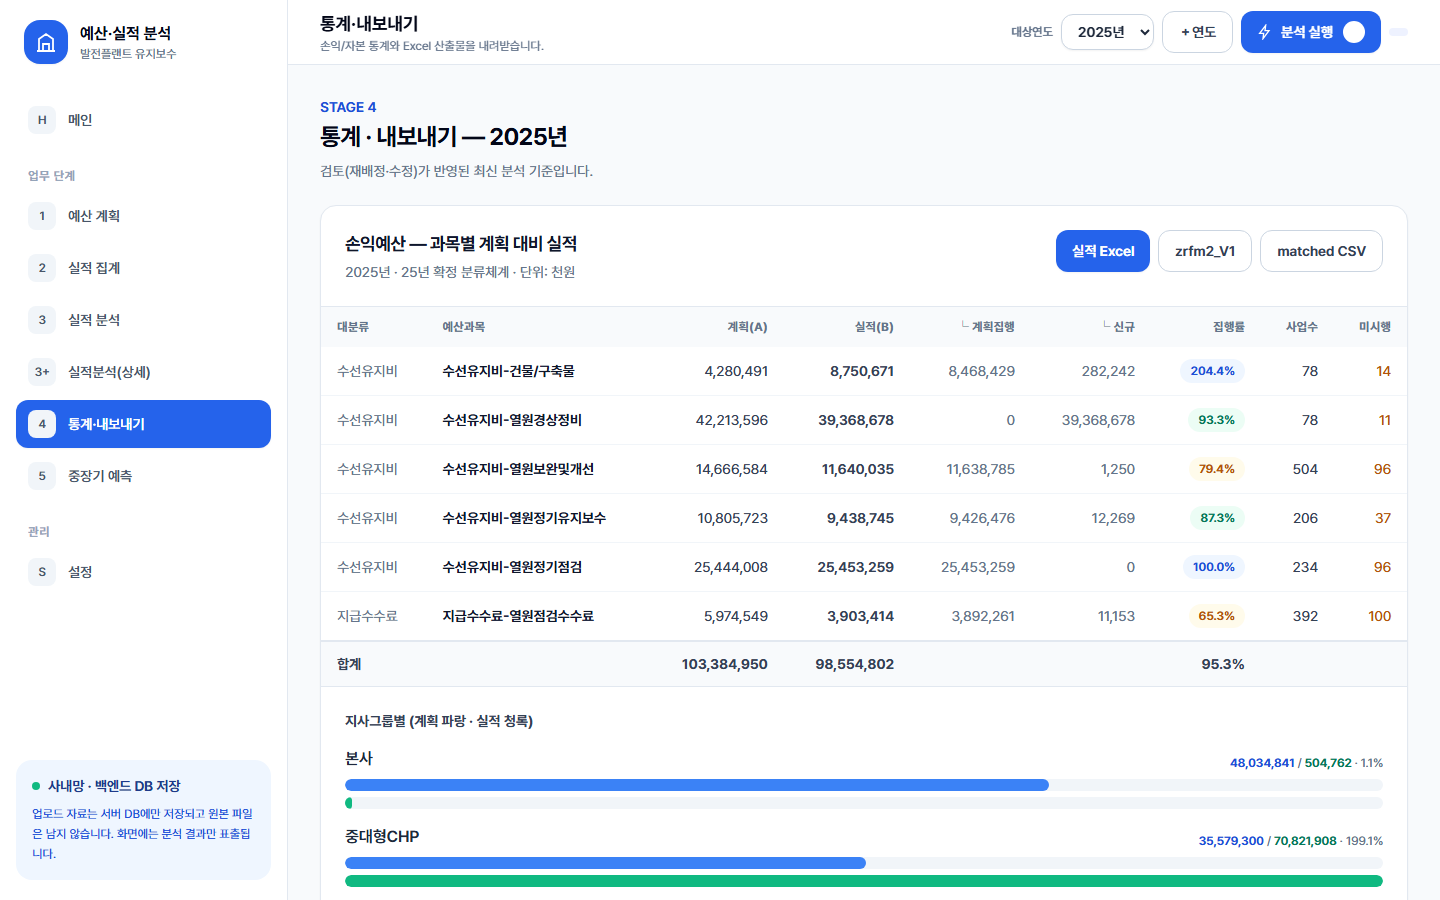
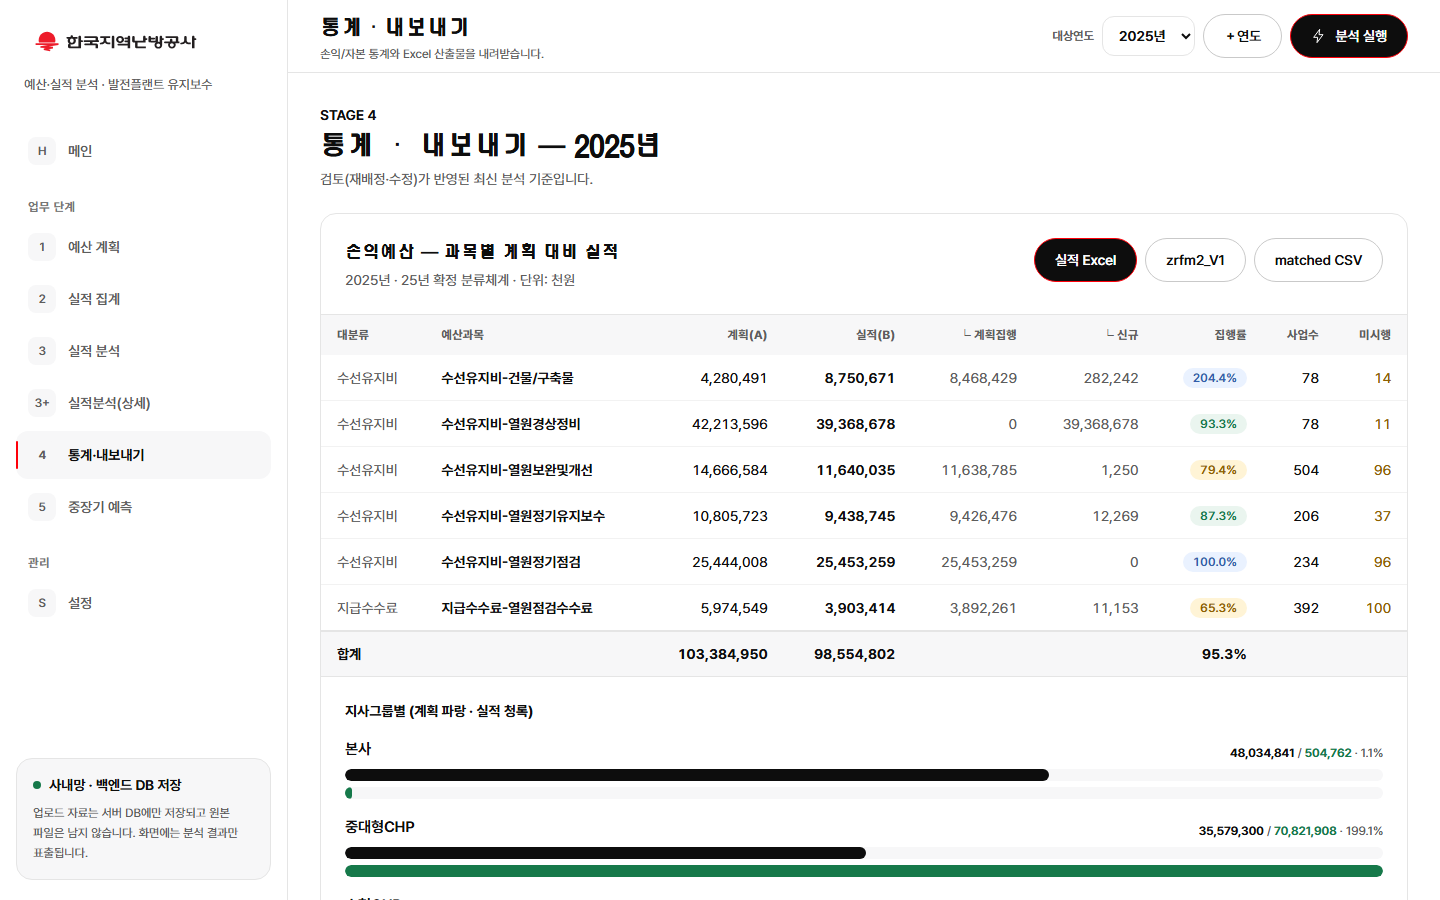
docs(ui): 한난 디자인 제작 메모·4개 폭 실측 캡처·공유 안내 캡처 갱신 (Task 5)
왜: 색 하나를 바꿀 사람이 «왜 이 값인지, 어디를 같이 바꿔야 하는지, 무엇이 실측이고
무엇이 계산인지»를 한 곳에서 보게 한다. 팀 공유 안내(팀공유_최종안내.html)의
캡처 10장은 옛 파란 화면이라 새 화면으로 갱신.

- docs/UI_제작메모_한난.md — 시안 대비 변경 · CI 근거(공식 #FE0009 vs 추출값,
  시그니처 출처, 한난체 라이선스 미확인) · 토큰 두 곳 규칙 · 실측(폭 4개 넘침 0,
  드로어, 폰트, 열폭) / 코드 검토(모션 감소, 대비 계산) 구분 · 대비표 15조합 ·
  남은 항목(한난체 사용 범위 확인·배포 확인).
- docs/img/ui/ 28장(1440·768·390·360 × 7화면). 390·360 은 Edge 헤드리스가 창 폭을
  ~500px 아래로 못 내려 DevTools Protocol 의 디바이스 에뮬레이션으로 찍었다
  (처음 --window-size 로 찍은 것은 넓은 레이아웃이 잘린 그림이라 교체).
- docs/img/share/ 10장 재캡처(1440×900, 동탄지사 상세 등 Phase 7 과 같은 화면).
- 계획서 체크 표기(사용자 몫인 Task 5 Step 8 만 남김).
- 최종 회귀 279 passed.

diff --git a/2026-09-09-team-package-v0/docs/UI_제작메모_한난.md b/2026-09-09-team-package-v0/docs/UI_제작메모_한난.md
@@ -1,0 +1,101 @@
+# 한난 디자인 시스템 적용 — UI 제작 메모 (Phase 8, 2026-09-21)
+
+> 설계서: `docs/superpowers/specs/2026-09-21-한난-디자인시스템-design.md` · 계획서: `docs/superpowers/plans/2026-09-21-Phase8-한난-디자인시스템.md`
+> 이 메모는 «무엇을 바꿨고, 왜 그 값인지, 무엇을 실측했고 무엇은 코드만 봤는지»를 남긴다. 다음 사람이 색 하나를 바꿀 때 어디를 봐야 하는지가 여기 있다.
+
+## 1. 시안 대비 무엇을 바꿨나
+
+한난 메인 시안(`hannan-template`)은 마케팅 홈페이지다. 이 앱은 팀 5~10명이 매일 쓰는 **업무 도구**라서 시안의 **색·글꼴·형태·톤**만 가져오고 **구조는 그대로** 두었다.
+
+| 영역 | 유지 | 바꾼 것 |
+|---|---|---|
+| 레이아웃 | 사이드바 288px · 헤더 · 메뉴 7개 · 라우팅 · 상세표(`det-table`) 열폭 | — |
+| 색 | — | Tailwind 기본 팔레트(`blue-600` 강조·`slate` 중성) → 한난 토큰. 화면 10개에서 495곳 치환, **잔존 0** (테스트로 고정) |
+| 글꼴 | 본문·표·숫자 Pretendard 계열 | 제목(헤더 `#pageTitle` 22px · 뷰 h2 24→28px · 게이트 h1 28px · `.section-title` 18px)에만 **한난체** 서브셋 |
+| 형태 | — | 카드 16px 곡률·1px 선·**그림자 없음** · 버튼 캡슐 44px · 입력 12px · 떠 있는 것(토스트·바쁨·전망 저장바)만 `shadow-float` |
+| 셸 | — | 파란 집 아이콘 → **공식 시그니처 SVG**(184px, `alt="한국지역난방공사"`) · 헤더 72px 불투명 흰색 · 사이드바 활성 = 검정 굵게 + 왼쪽 2px 빨간 마커 · 작업자 배지 남색 → 중성 |
+| 접근성 | — | 건너뛰기 링크 «본문 바로가기» · `:focus-visible` 빨간 2px 링 · 모바일 드로어 Escape/포커스 복귀/Tab 순환·`aria-expanded`·`role=dialog` · `prefers-reduced-motion` 억제 · 표 숫자 `tabular-nums` · 한글 `keep-all` |
+
+**하지 않은 것:** 상단 메뉴 전환 · 다크 모드 · 시안의 마케팅 섹션 · 새 기능.
+
+## 2. CI 사용 근거 — 어느 값을 왜 골랐나
+
+| 값 | 채택 | 출처·이유 |
+|---|---|---|
+| 브랜드 빨강 **`#FE0009`** | ✅ | CI 매뉴얼 `한난 CI/color/전용색상1.pdf` BS 12 — 공식 RGB 254·0·9. `tailwind.config.js` 의 `brand` 와 `app.css :root --brand` 두 곳에 같은 값 |
+| `#ED1C2B` | ❌ | 시안 `DESIGN-NOTES.md` 의 값 — 공식 로고 이미지에서 **추출**한 근사값. 기록만 하고 쓰지 않는다(테스트가 막는다) |
+| 빨강 위 흰 글자 | ❌ | 대비 **4.02:1** — AA 4.5 미달. 그래서 주요 버튼은 시안 규칙대로 **검정 바탕 + 흰 글자 + 빨간 1px 테두리**. 빨강은 포커스 링·활성 마커·호버 글자색·스피너에만 |
+| 시그니처 `kdhc-signature-ko.svg` | ✅ | `한난 CI/signi/…한글가로A타입.ai` 를 시안이 SVG 로 변환한 자산을 그대로 복사(`app/web/public/assets/`). viewBox 165.7×38.3 → 184px 폭에 42.5px |
+| 한난체 `HananCha` | ✅ (제목만) | `한난 CI/font/HANAN.TTF`(866KB, 4,766 글리프) → `scripts/make_hanan_font.py` 로 완성형 2,350자+ASCII+기호 서브셋 **130KB woff2**(2,575 글리프). **라이선스 문구가 파일에 없다** — 사내 도구에서의 웹폰트 사용 범위 확인은 사용자 몫(§5) |
+| 중성·상태색 | ✅ (2개 조정) | 시안 `globals.css` + `openai-light.md`. **`tri` `#8F8F8F`→`#767676`**, **`warn` `#9A6700`→`#8F6000`** 으로 조정 — §4 대비표 참조 |
+
+### 폰트 서브셋에서 잡은 것 (재발 시 참고)
+
+원본 HANAN.TTF 의 글리프 9개(래·챕·챗·쳅·햅·햇·헵·헷·혭)는 점이 0개인 **빈 윤곽**을 하나 더 갖고 있다(`endPtsOfContours` 에 같은 값이 연달아 — 래 = `[27, 27]`). 데스크톱 렌더러는 눈감아 주지만 Chrome/Edge 의 OTS 는 `glyf: Decreasing contour index` 로 **폰트 전체를 버린다** — 실측에서 제목이 전부 폴백 글꼴로 나왔다. `make_hanan_font.py` 의 `repair_empty_contours()` 가 빈 윤곽만 지운다. 재생성할 때 이 단계를 빼면 다시 깨진다.
+
+`/assets/*` 는 서버가 `immutable` 캐시(1년)를 주므로 폰트를 바꾸면 **파일명을 `-v2` 로** 올려야 한다. 같은 이름으로 덮어쓰면 이미 받은 브라우저는 옛 파일을 계속 쓴다(이번 세션에서 실제로 겪었다 — 로컬 확인은 `127.0.0.1` 로 origin 을 바꿔서 했다).
+
+## 3. 토큰 — 값을 바꿀 때 보는 곳
+
+같은 값이 **두 곳**에 있다. 뷰의 유틸리티(`text-ink` `bg-subtle` …)는 `app/web/tailwind.config.js`, 손으로 쓴 `custom.css` 는 `app/web/src/styles/app.css` 의 `:root` 변수. 한쪽만 바꾸면 화면이 둘로 갈린다.
+
+```
+ink #0D0D0D  sub #5D5D5D  tri #767676  dis #A6A6A6
+line #E5E5E5  line-strong #C9C9C9  line-subtle #F2F2F2  base #FFFFFF  subtle #F7F7F8  overlay rgba(13,13,13,.56)
+brand #FE0009  brand-ink #000000
+ok #16794A / #EAF5EF   warn #8F6000 / #FFF4D6   err #B42318 / #FDECEC   info #315EAC / #EAF2FF
+rounded-card 16  rounded-visual 24  rounded-control 12  버튼 캡슐(999)   shadow-float 0 8px 24px rgba(0,0,0,.10)   duration 180ms
+```
+
+의미색과 브랜드색은 **값으로 분리**돼 있다: 오류 `err #B42318`(적갈) ≠ 브랜드 `#FE0009`(선홍). 배지·삭제 버튼·경고 박스는 `err`/`warn`/`ok`/`info` 만 쓴다. `restyle_sweep.py`(1회성 치환표)가 그 규칙을 기록한다.
+
+## 4. 검증 결과
+
+### 4-1. 실측한 것 (내장 브라우저 · 로컬 사본 DB `127.0.0.1:8099`, 2026-09-21)
+
+| 항목 | 결과 |
+|---|---|
+| 가로 넘침 (`scrollWidth > innerWidth`) | **1440·768·390·360 × 홈·3 지사·3+ 상세(동탄지사)·5 전망(기준정보·표준화·전망)·설정 = 0건.** `det-table` 은 설계대로 `min-width:56rem` 안쪽 가로 스크롤(768px 에서 wrapper 896/703, `overflow-x:auto`) |
+| 상세표 열폭 | 1440px 실측 `[64,173,83,357,99,99,86,70,38]` — `custom.css` 열폭 규칙 불변 |
+| 헤더 | 높이 72px · 주요/보조 버튼 44px · 768px 에서 버튼 글자가 두 줄로 꺾이던 것을 `whitespace-nowrap` + 우측 묶음 `shrink-0` 로 고침(제목이 대신 말줄임) |
+| 로고 | 사이드바·게이트 184×42.5px, SVG 선명 |
+| 한난체 | `document.fonts` 상태 `loaded` · 헤더 제목·뷰 h2(28px)·게이트 h1 에 적용 확인 |
+| 모바일 드로어 (390px) | 메뉴 버튼 → 열림·`aria-expanded=true`·`role=dialog` → 첫 항목(메인) 포커스 → Shift+Tab 은 마지막(설정)으로, Tab 은 다시 첫 항목으로 순환 → Escape → 닫힘·`aria-expanded=false`·`document.activeElement.id === "menuButton"` |
+| 배지 의미색 | 3 지사 집행률: 95%↑ `info`(파랑) · 85~95 `ok`(초록) · 미만 `warn`(주황). 상세 상태: 계획집행 `info` · 신규 `warn` · 미시행 중립 · 미매핑 `err` |
+| 5 전망 하위 탭 | 활성 = 검정 캡슐(`btn-primary`), `#/forecast/bench|table` 딥링크 정상 |
+| 기존 버그 1건 수정 | 분석 버튼의 흰 점 — `.pending-count{display:inline-flex}` 가 `.hidden` 을 이겨서 미반영 0건에도 보였다(Phase 7 캡처에도 있음). `.pending-count.hidden{display:none}` |
+| 캡처 | `docs/img/ui/{1440,768,390,360}-{home,branches,detail,forecast,forecast_bench,forecast_table,settings}.png` 28장 · `docs/img/share/*.png` 10장 갱신. 1440·768 은 Edge 헤드리스 `--window-size`, **390·360 은 DevTools Protocol `Emulation.setDeviceMetricsOverride`(mobile)** — Edge 헤드리스는 창 폭을 ~500px 아래로 못 내려서 `--window-size=390` 으로 찍으면 넓은 레이아웃이 잘려 나온다(처음 그렇게 찍혔다가 교체) |
+
+### 4-2. 코드 검토만 한 것 (브라우저 에뮬레이션 없음)
+
+| 항목 | 근거 |
+|---|---|
+| 모션 감소 | `app.css` `@media (prefers-reduced-motion: reduce)` — 애니메이션·전환 0.01ms, 부드러운 스크롤 해제. 내장 브라우저에 에뮬레이션이 없어 실측 못 함 |
+| 대비 | 아래 표 — WCAG 상대 휘도 계산(파이썬). 실제 렌더 색을 측정한 것은 아니다 |
+
+### 4-3. 대비표 (WCAG 2.x 상대 휘도, 계산값)
+
+| 조합 | 값 | 비율 | 판정 |
+|---|---|---|---|
+| ink / base | `#0D0D0D` / `#FFFFFF` | 19.44 | AAA |
+| sub / base | `#5D5D5D` / `#FFFFFF` | 6.58 | AA |
+| sub / subtle | `#5D5D5D` / `#F7F7F8` | 6.15 | AA |
+| **tri / base** | `#767676` / `#FFFFFF` | **4.54** | AA — 시안값 `#8F8F8F` 는 **3.23** 이라 올렸다. `text-tri` 가 «귀속 전표 없음»·«양식: …»·빈 표 문구처럼 **12px 캡션 본문**에 37곳 쓰이기 때문 |
+| dis / base | `#A6A6A6` / `#FFFFFF` | 2.43 | 비활성 전용(면제) |
+| white / ink (주요 버튼) | | 19.44 | AAA |
+| white / #333 (주요 버튼 호버) | | 12.63 | AAA |
+| ok / ok-bg | `#16794A` / `#EAF5EF` | 4.86 | AA |
+| **warn / warn-bg** | `#8F6000` / `#FFF4D6` | **4.99** | AA — 시안값 `#9A6700` 은 **4.44** 로 미달이라 한 단계 어둡게 |
+| err / err-bg | `#B42318` / `#FDECEC` | 5.76 | AA |
+| info / info-bg | `#315EAC` / `#EAF2FF` | 5.60 | AA |
+| white / err (삭제 버튼) | | 6.57 | AA |
+| white / warn (미반영 버튼) | | 5.47 | AA |
+| white / **brand** | `#FFFFFF` / `#FE0009` | **4.02** | **미달 → 쓰지 않는다** (버튼 바탕 금지의 근거) |
+| brand / base (포커스 링·마커) | | 4.02 | 비텍스트 UI 요소 기준 3:1 충족 |
+
+## 5. 남은 항목 (사용자 확인)
+
+1. **한난체 웹폰트 사용 범위** — TTF 에 라이선스 문구가 없다. 사내 도구(비공개, 팀 내부)에서 자체 호스팅해도 되는지 CI 담당 부서 확인. 안 되면 `@font-face` 한 블록과 `font-hanan` 만 빼면 Pretendard 로 자동 폴백된다.
+2. **팀 피드백** — 색·글꼴·형태만 바뀌었고 동선은 같지만, «낯설다»는 반응이 오면 `docs/팀공유_최종안내.html` 캡처(갱신됨)로 안내.
+3. **배포 확인** (병합 후 Manual Deploy) — `/healthz` commit · 번들 해시 · `/assets/kdhc-signature-ko.svg` 200 · `/assets/fonts/HananCha-v1.woff2` 200 + `cache-control: immutable`.
+4. 시안 대비 **조정한 토큰 2개**(`tri`·`warn`)는 대비 때문이다. 시안값으로 되돌리려면 §3 의 두 곳을 같이 바꾸고 §4-3 을 다시 계산한다.
